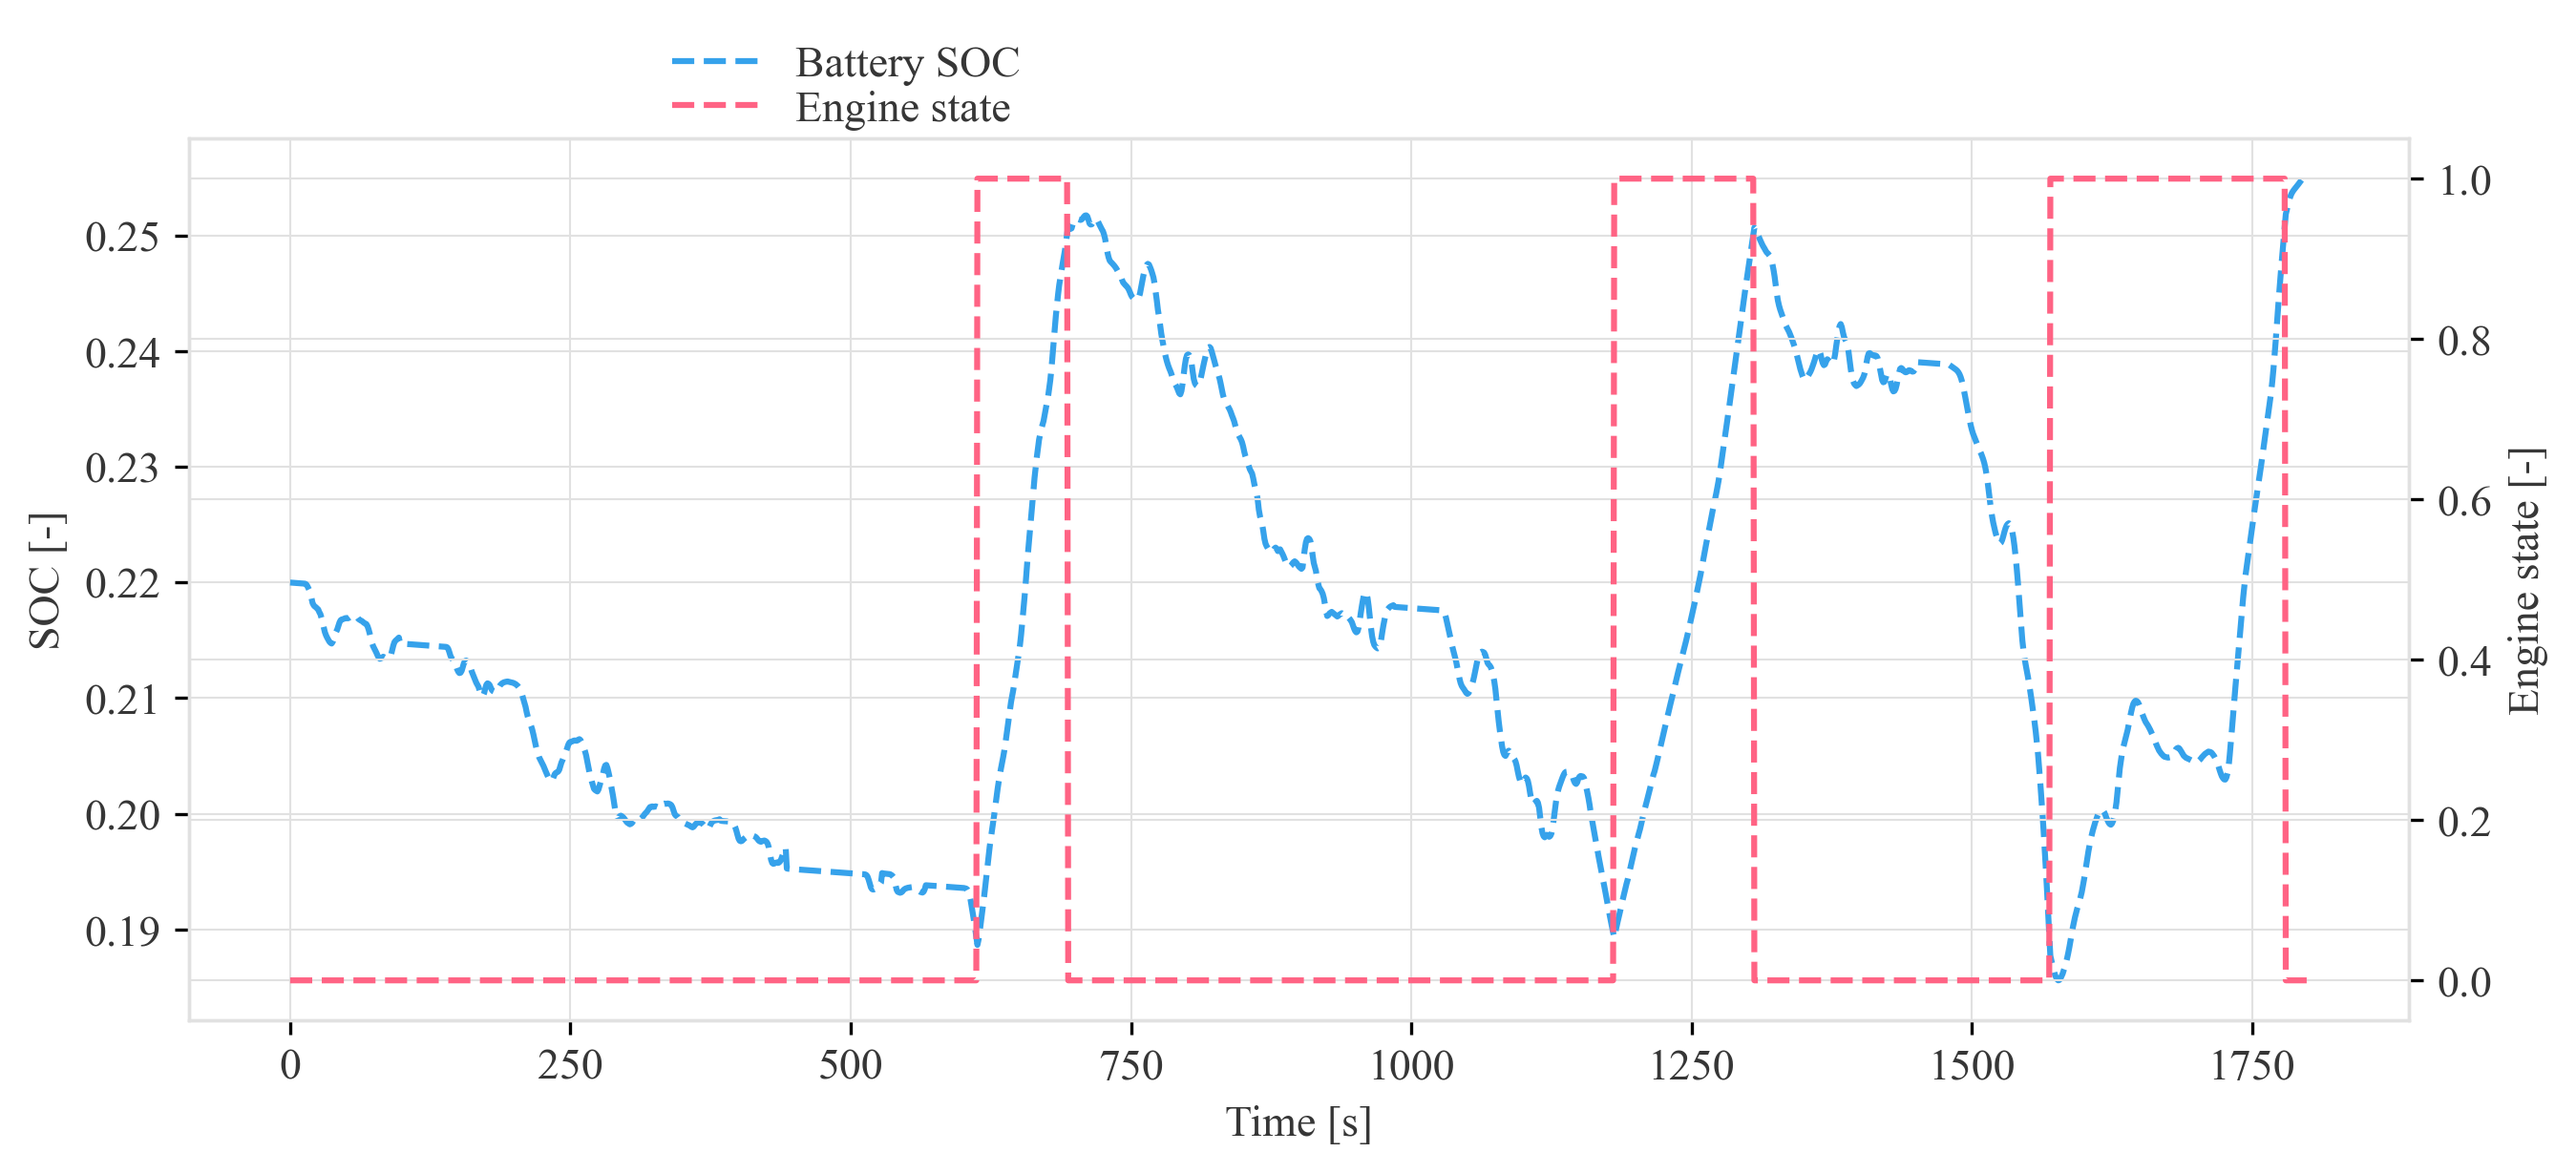
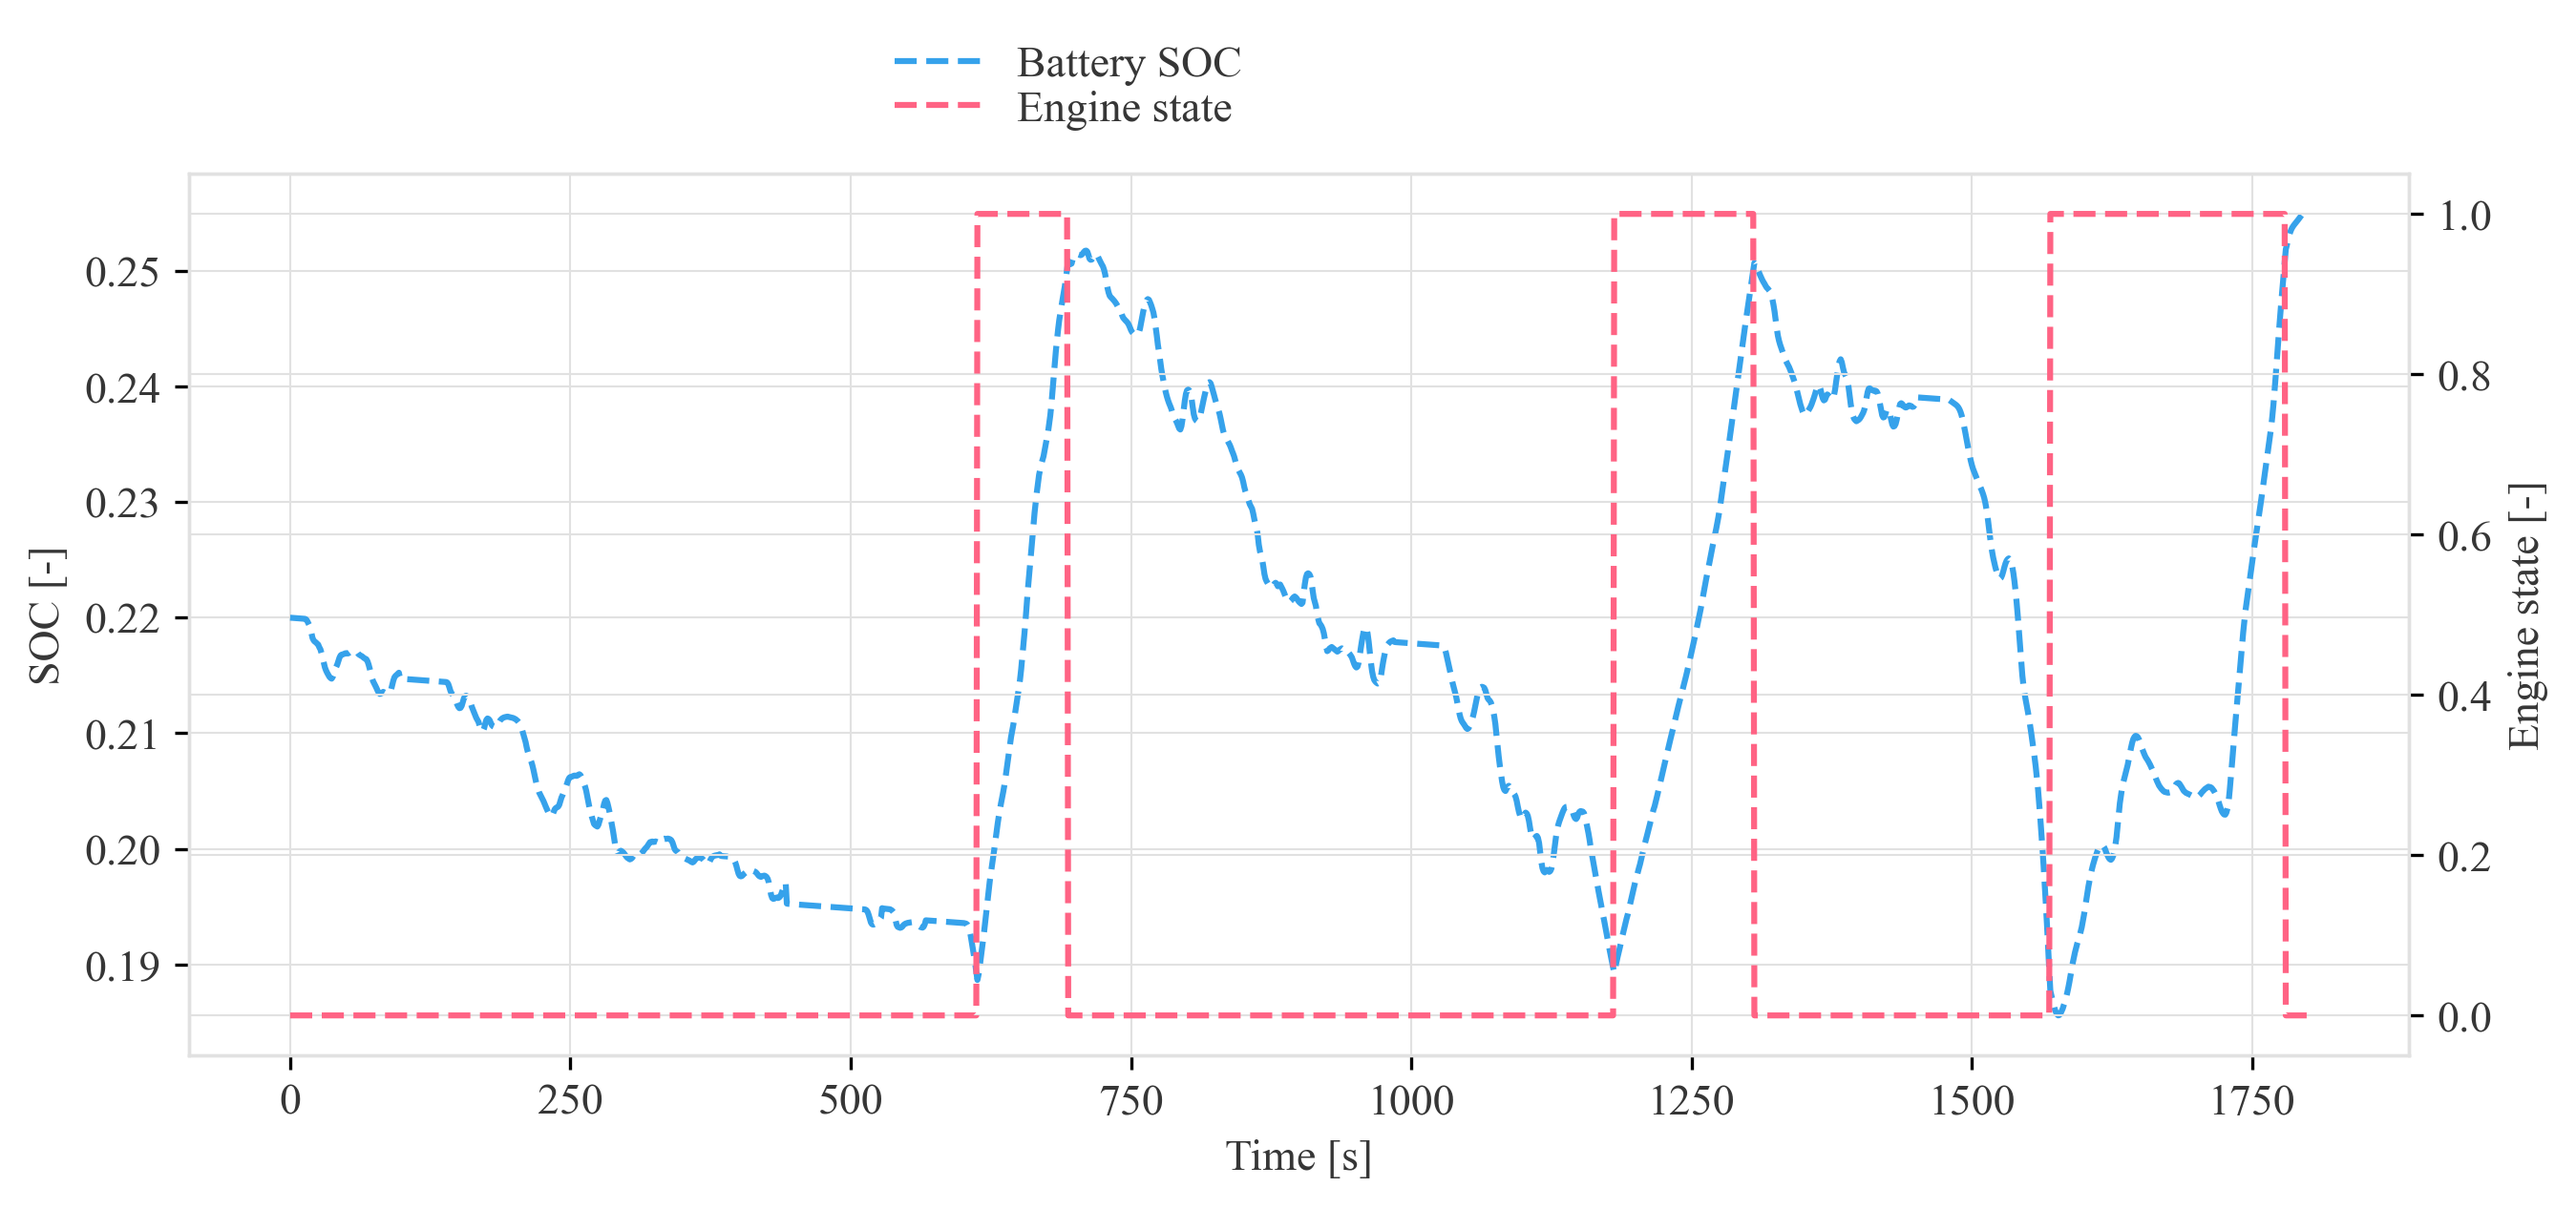
testt

diff --git a/src/core/simulationModel.py b/src/core/simulationModel.py
@@ -269,7 +269,7 @@ class SimulationModel:
         Graph.setup_secondary_axis(ylabel='Engine state [-]', sci=False)
         Graph.plot(x=self.time, y=self.engine_state, color='chartjs_red', marker='', label='Engine state', axis_number=1)
         # Graph.show(dx=0.2, dy=1.15, ncol=2)
-        Graph.save(filename=f'output/{self.current_type}/SOC_state', ncol=2, dy=1.15, dx=0.2)
+        Graph.save(filename=f'output/{self.current_type}/SOC_state', ncol=2, dy=1.19, dx=0.3)
         Graph.delete() #test
         
         # Fuel and CO2 emissions
@@ -290,6 +290,9 @@ class SimulationModel:
         power_thermal_engine = self.power_provided_by_thermal_engine / self.__car.EL2_efficiency
         Graph.plot(x=self.time, y=power_thermal_engine, color='chartjs_red', marker='', label='Power provided by thermal engine', linestyle='-')
         Graph.plot(x=self.time, y=self.power_provided_by_thermal_engine, color='chartjs_orange', marker='', label='Power provided by eMotor2', linestyle='-')
+        Graph.add_axis()
+        Graph.setup_secondary_axis(ylabel='Fuel consumption [g]', sci=False)
+        Graph.plot(x=self.time, y=self.cumulative_fuel_consumption, color='chartjs_green', marker='', label='Cumulative fuel consumption', axis_number=1)
         # Graph.show(dx=0.2, dy=1.15, ncol=2)
         Graph.save(filename=f'output/{self.current_type}/eMoror2_power', ncol=2, dy=1.19, dx=0.15)
         Graph.delete()
